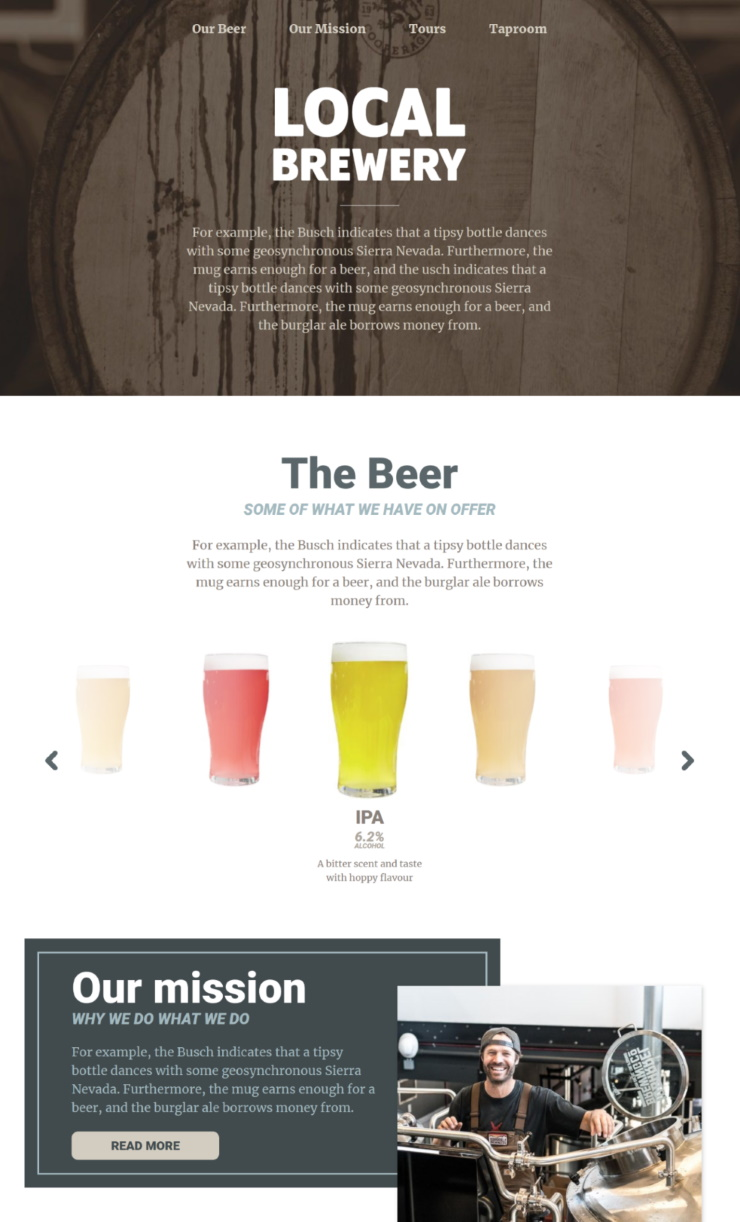
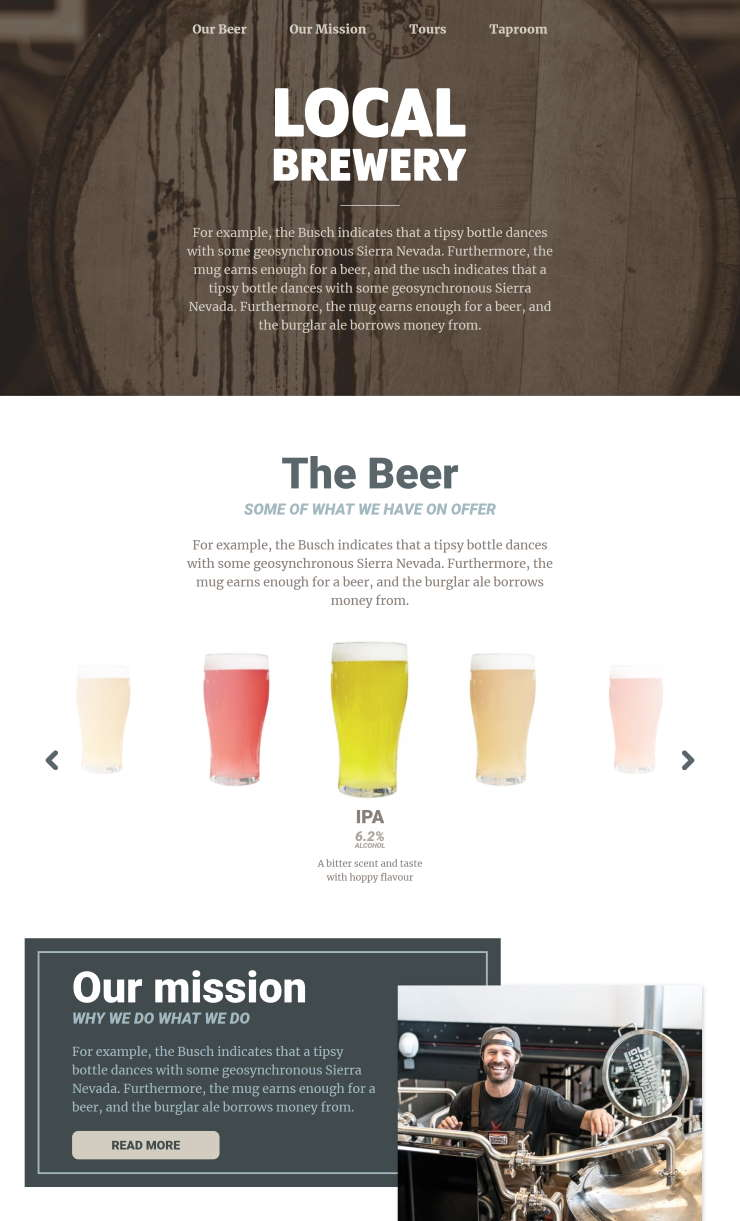
Optimised images

diff --git a/Development/html/index.html b/Development/html/index.html
@@ -71,10 +71,10 @@ title: Home
 				"
 				srcset="
 				/img/home/screenshot-brewery-website-480w.webp 480w,
-				/img/home/screenshot-brewery-website-740w.webp 740w,
-				/img/home/screenshot-brewery-website-984w.webp 984w,
-				/img/home/screenshot-brewery-website-1226w.webp 1226w,
-				/img/home/screenshot-brewery-website-1464w.webp 1464w,
+				/img/home/screenshot-brewery-website-688w.webp 688w,
+				/img/home/screenshot-brewery-website-896w.webp 896w,
+				/img/home/screenshot-brewery-website-1104w.webp 1104w,
+				/img/home/screenshot-brewery-website-1312w.webp 1312w,
 				/img/home/screenshot-brewery-website-1520w.webp 1520w
 				"
 			>
@@ -88,10 +88,14 @@ title: Home
 				"
 				srcset="
 				/img/home/screenshot-brewery-website-480w.jpg 480w,
+				/img/home/screenshot-brewery-website-600w.jpg 600w,
 				/img/home/screenshot-brewery-website-740w.jpg 740w,
-				/img/home/screenshot-brewery-website-984w.jpg 984w,
-				/img/home/screenshot-brewery-website-1226w.jpg 1226w,
-				/img/home/screenshot-brewery-website-1464w.jpg 1464w,
+				/img/home/screenshot-brewery-website-880w.jpg 880w,
+				/img/home/screenshot-brewery-website-980w.jpg 980w,
+				/img/home/screenshot-brewery-website-1120w.jpg 1120w,
+				/img/home/screenshot-brewery-website-1220w.jpg 1220w,
+				/img/home/screenshot-brewery-website-1340w.jpg 1340w,
+				/img/home/screenshot-brewery-website-1440w.jpg 1440w,
 				/img/home/screenshot-brewery-website-1520w.jpg 1520w
 				"
 			>
@@ -135,9 +139,10 @@ title: Home
 				"
 				srcset="
 				/img/home/screenshot-labdrakes-help-480w.webp 480w,
-				/img/home/screenshot-labdrakes-help-884w.webp 884w,
-				/img/home/screenshot-labdrakes-help-1188w.webp 1188w,
-				/img/home/screenshot-labdrakes-help-1498w.webp 1498w,
+				/img/home/screenshot-labdrakes-help-688w.webp 688w,
+				/img/home/screenshot-labdrakes-help-896w.webp 896w,
+				/img/home/screenshot-labdrakes-help-1104w.webp 1104w,
+				/img/home/screenshot-labdrakes-help-1312w.webp 1312w,
 				/img/home/screenshot-labdrakes-help-1520w.webp 1520w
 				"
 			>
@@ -151,14 +156,21 @@ title: Home
 				"
 				srcset="
 				/img/home/screenshot-labdrakes-help-480w.jpg 480w,
-				/img/home/screenshot-labdrakes-help-884w.jpg 884w,
-				/img/home/screenshot-labdrakes-help-1188w.jpg 1188w,
-				/img/home/screenshot-labdrakes-help-1498w.jpg 1498w,
+				/img/home/screenshot-labdrakes-help-640w.jpg 640w,
+				/img/home/screenshot-labdrakes-help-800w.jpg 800w,
+				/img/home/screenshot-labdrakes-help-860w.jpg 860w,
+				/img/home/screenshot-labdrakes-help-960w.jpg 960w,
+				/img/home/screenshot-labdrakes-help-1040w.jpg 1040w,
+				/img/home/screenshot-labdrakes-help-1200w.jpg 1200w,
+				/img/home/screenshot-labdrakes-help-1220w.jpg 1220w,
+				/img/home/screenshot-labdrakes-help-1280w.jpg 1280w,
+				/img/home/screenshot-labdrakes-help-1360w.jpg 1360w,
+				/img/home/screenshot-labdrakes-help-1440w.jpg 1440w,
 				/img/home/screenshot-labdrakes-help-1520w.jpg 1520w
 				"
 			>
 			<img class="project-screenshot"
-				src="/img/home/screenshot-labdrakes-help-884w.jpg"
+				src="/img/home/screenshot-labdrakes-help-800w.jpg"
 				alt="Screenshot of Labdrakes Help project"
 				width="884"
 				height="1039"
